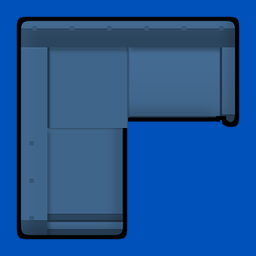
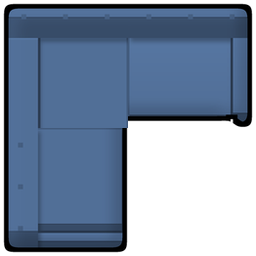
Rebuild store preview in the SloppyMods house style (awaiting approval)
Charcoal card, SLOPPYMODS label, two-tone title with accent rule, tagline,
a furnished room from the real textures on a plank floor, and a strip of
single pieces; transparent mod icon. Not merged to main until approved.

Claude-Session: https://claude.ai/code/session_01MFahRyHzEtqXLpstHL7o2W

diff --git a/Source/Art/make_about_art.py b/Source/Art/make_about_art.py
@@ -1,44 +1,123 @@
-"""About/Preview.png (640x360) and About/ModIcon.png (256x256), composited from
-the shipped textures so the store page cannot drift from the game.
-python3 Source/Art/make_about_art.py   (from the repo root)"""
-from PIL import Image, ImageDraw
+"""About/Preview.png (640x360) and About/ModIcon.png (256x256), in the SloppyMods
+store-art house style (see the TrashPower and Mending make_about_art.py): a dark
+charcoal card, SLOPPYMODS label, two-tone title with an accent rule, a short
+tagline, and the mod's own in-game art - here a furnished room laid out by the
+same join rules as the game, plus a strip of single pieces.
 
-from compose import render
+python3 Source/Art/make_about_art.py   (from the repo root)
+"""
+import sys
 
-WOOD = (133, 94, 62)
-FABRIC = (70, 110, 150)
-YELLOW = (255, 204, 0)
+from PIL import Image, ImageDraw, ImageFilter, ImageFont
+
+sys.path.insert(0, "Source/Art")
+from compose import render, tinted  # noqa: E402
+from draw_sprites import rocker_path  # noqa: E402
+
+BOLD = "/usr/share/fonts/truetype/dejavu/DejaVuSans-Bold.ttf"
+W, H = 640, 360
+ACCENT = (255, 204, 0, 255)          # flat-pack yellow, the mod's one accent
+WOOD, OAK, FABRIC, RUG, WHITE = (150, 108, 70), (176, 132, 88), (88, 120, 164), (170, 64, 52), (236, 234, 228)
+
+
+def shadow(img, blur=7, alpha=140, off=(3, 5)):
+    pad = blur * 3
+    sh = Image.new("RGBA", (img.width + pad * 2, img.height + pad * 2), (0, 0, 0, 0))
+    sh.paste(Image.new("RGBA", img.size, (0, 0, 0, alpha)), (pad + off[0], pad + off[1]), img.split()[3])
+    return sh.filter(ImageFilter.GaussianBlur(blur)), pad
+
+
+def place(card, img, pos):
+    assert pos[0] >= 0 and pos[1] >= 0 and pos[0] + img.width <= W and pos[1] + img.height <= H, (pos, img.size)
+    sh, pad = shadow(img)
+    card.alpha_composite(sh, (pos[0] - pad, pos[1] - pad))
+    card.alpha_composite(img, pos)
+
+
+def room():
+    """A kitchen-diner: a kitchen run and cube shelving along the back wall, an L sectional on a
+    rug, and a dragged-out table with a bench and chairs."""
+    sc = {}
+    for x, m in enumerate(("Cabinet", "Sink", "Cabinet", "Hob")):
+        sc[(x, 7)] = (m, "south")
+    for x in range(5, 8):
+        sc[(x, 7)] = ("shelf", "south")
+    for x in range(0, 4):
+        sc[(x, 5)] = ("sect", "south")
+    for z in range(2, 5):
+        sc[(0, z)] = ("sect", "east")
+    for x in range(4, 8):
+        for z in range(2, 4):
+            sc[(x, z)] = ("table",)
+    for x in range(4, 8):
+        sc[(x, 1)] = ("Bench", "north")
+    sc[(5, 4)] = ("sect", "south")
+    sc[(6, 4)] = ("sect", "south")
+    rugs = {(x, z) for x in range(1, 4) for z in range(1, 5)}
+    return render(sc, {"table": WOOD, "sect": FABRIC, "Cabinet": WHITE, "Sink": WHITE, "Hob": WHITE, "shelf": WHITE, "Bench": WOOD, "rug": RUG},
+                  (8, 8), 40, bg=None, rugs=rugs)
+
+
+def piece(path, color, mask=None, size=44):
+    im = tinted(path, color, mask)
+    im = im.crop(im.getbbox())
+    s = size / max(im.size)
+    return im.resize((max(1, round(im.width * s)), max(1, round(im.height * s))), Image.LANCZOS)
 
 
 def main():
-    scene = {}
-    # An L sectional facing a dragged-out table.
-    for x in range(0, 4):
-        scene[(x, 4)] = ("sect", "south")
-    for z in range(1, 4):
-        scene[(0, z)] = ("sect", "east")
-    for x in range(5, 9):
-        for z in range(1, 3):
-            scene[(x, z)] = ("table",)
-    scene[(6, 3)] = ("table",)
-    scene[(7, 3)] = ("table",)
-    for x in (5, 8):
-        scene[(x, 0)] = ("sect", "north")
-    scene[(9, 1)] = ("sect", "west")
-    img = render(scene, {"table": WOOD, "sect": FABRIC}, (10, 5), 56, bg=(92, 84, 72))
-    prev = Image.new("RGBA", (640, 360), (0, 81, 186, 255))
-    prev.alpha_composite(img, ((640 - img.width) // 2, 20))
-    d = ImageDraw.Draw(prev)
-    d.rectangle([0, 310, 640, 360], fill=YELLOW + (255,))
-    d.text((20, 326), "SLOPKEA FURNITURE  -  some assembly required", fill=(0, 51, 120))
-    prev.convert("RGB").save("About/Preview.png")
+    card = Image.new("RGBA", (W, H))
+    d = ImageDraw.Draw(card)
+    for y in range(H):
+        t = y / (H - 1)
+        d.line([(0, y), (W, y)], fill=tuple(round(a + (b - a) * t) for a, b in zip((48, 44, 40), (26, 24, 22))) + (255,))
 
-    # The icon is one corner of the sectional: it still reads at 32px.
+    # The room stands on a plank floor, so it reads as a room rather than loose
+    # pieces (the Riimba preview's floor does the same job).
+    hero = room()
+    floor = Image.new("RGBA", hero.size, (0, 0, 0, 0))
+    fd = ImageDraw.Draw(floor)
+    fd.rounded_rectangle([0, 0, hero.width - 1, hero.height - 1], radius=10, fill=(84, 70, 58, 255))
+    for k, y in enumerate(range(0, hero.height, 20)):
+        fd.line([(6, y), (hero.width - 7, y)], fill=(70, 58, 48, 255), width=2)
+        for x in range(((k * 53) % 90) + 10, hero.width - 10, 90):
+            fd.line([(x, y), (x, y + 19)], fill=(70, 58, 48, 255), width=2)
+    floor.alpha_composite(hero)
+    place(card, floor, (W - floor.width - 18, (H - floor.height) // 2))
+
+    d = ImageDraw.Draw(card)
+    d.text((30, 36), "SLOPPYMODS", font=ImageFont.truetype(BOLD, 18), fill=(146, 142, 136, 255))
+    d.text((30, 60), "SLOPKEA", font=ImageFont.truetype(BOLD, 46), fill=(238, 234, 228, 255))
+    d.text((30, 106), "FURNITURE", font=ImageFont.truetype(BOLD, 34), fill=ACCENT)
+    d.line([(32, 152), (200, 152)], fill=ACCENT, width=3)
+    for i, line in enumerate(("Flat-pack furniture that", "joins up into any shape.", "Some assembly required.")):
+        d.text((30, 162 + i * 20), line, font=ImageFont.truetype(BOLD, 15), fill=(168, 164, 158, 255))
+
+    # A strip of single pieces, each in its own tile, as Entertaining Ideas does.
+    tiles = [piece(rocker_path("Cloth", "south"), FABRIC, rocker_path("Cloth", "south", True)),
+             piece(rocker_path("Wood", "south"), WOOD),
+             piece("Textures/Things/Building/Furniture/Slopkea/Kitchen/Slopkea_Hob_south.png", WHITE,
+                   "Textures/Things/Building/Furniture/Slopkea/Kitchen/Slopkea_Hob_southm.png"),
+             piece("Textures/Things/Building/Furniture/Slopkea/Planter/Slopkea_Planter_0.png", WOOD,
+                   "Textures/Things/Building/Furniture/Slopkea/Planter/Slopkea_Planter_0_m.png"),
+             piece("Textures/Things/Building/Furniture/Slopkea/Wardrobe/Slopkea_Wardrobe_south.png", OAK,
+                   "Textures/Things/Building/Furniture/Slopkea/Wardrobe/Slopkea_Wardrobe_southm.png")]
+    x0, y0, tw = 30, 252, 50
+    d.rectangle([x0 - 4, y0 - 4, x0 + len(tiles) * tw + 2, y0 + tw + 2], fill=(30, 28, 26, 255), outline=(70, 66, 62, 255))
+    for k, t in enumerate(tiles):
+        card.alpha_composite(t, (x0 + k * tw + (tw - 2 - t.width) // 2, y0 + (tw - t.height) // 2))
+    card.convert("RGB").save("About/Preview.png")
+
+    # Shown at about 32px in the mod list: one sectional corner, filling it.
     icon_scene = {(0, 1): ("sect", "south"), (1, 1): ("sect", "south"), (0, 0): ("sect", "east")}
-    icon = render(icon_scene, {"sect": FABRIC, "table": WOOD}, (2, 2), 112, bg=(0, 81, 186))
-    out = Image.new("RGBA", (256, 256), (0, 81, 186, 255))
-    out.alpha_composite(icon, (16, 16))
-    out.convert("RGB").save("About/ModIcon.png")
+    src = render(icon_scene, {"sect": FABRIC, "table": WOOD}, (2, 2), 128, bg=None)
+    src = src.crop(src.getbbox())
+    s = 250 / max(src.size)
+    small = src.resize((round(src.width * s), round(src.height * s)), Image.LANCZOS)
+    icon = Image.new("RGBA", (256, 256), (0, 0, 0, 0))
+    icon.alpha_composite(small, ((256 - small.width) // 2, (256 - small.height) // 2))
+    icon.save("About/ModIcon.png")
+    print("wrote About/Preview.png and About/ModIcon.png")
 
 
 if __name__ == "__main__":

diff --git a/Source/Art/compose.py b/Source/Art/compose.py
@@ -76,7 +76,7 @@ def render(scene, colors, size, cell_px=CELL, bg=(92, 84, 72), rugs=()):
     z up; rugs: a set of cells, drawn underneath. size in cells."""
     from draw_modular import desk_path, rug_path, shelf_path
     w, h = size
-    out = Image.new("RGBA", (w * cell_px, h * cell_px), bg + (255,))
+    out = Image.new("RGBA", (w * cell_px, h * cell_px), (bg + (255,)) if bg else (0, 0, 0, 0))
     rugs = set(rugs)
     tiles = [((x, z), tinted(rug_path(bits_index(rugs, (x, z)), rug_corners(rugs, (x, z))),
                              colors.get("rug", (160, 60, 50)))) for x, z in rugs]
